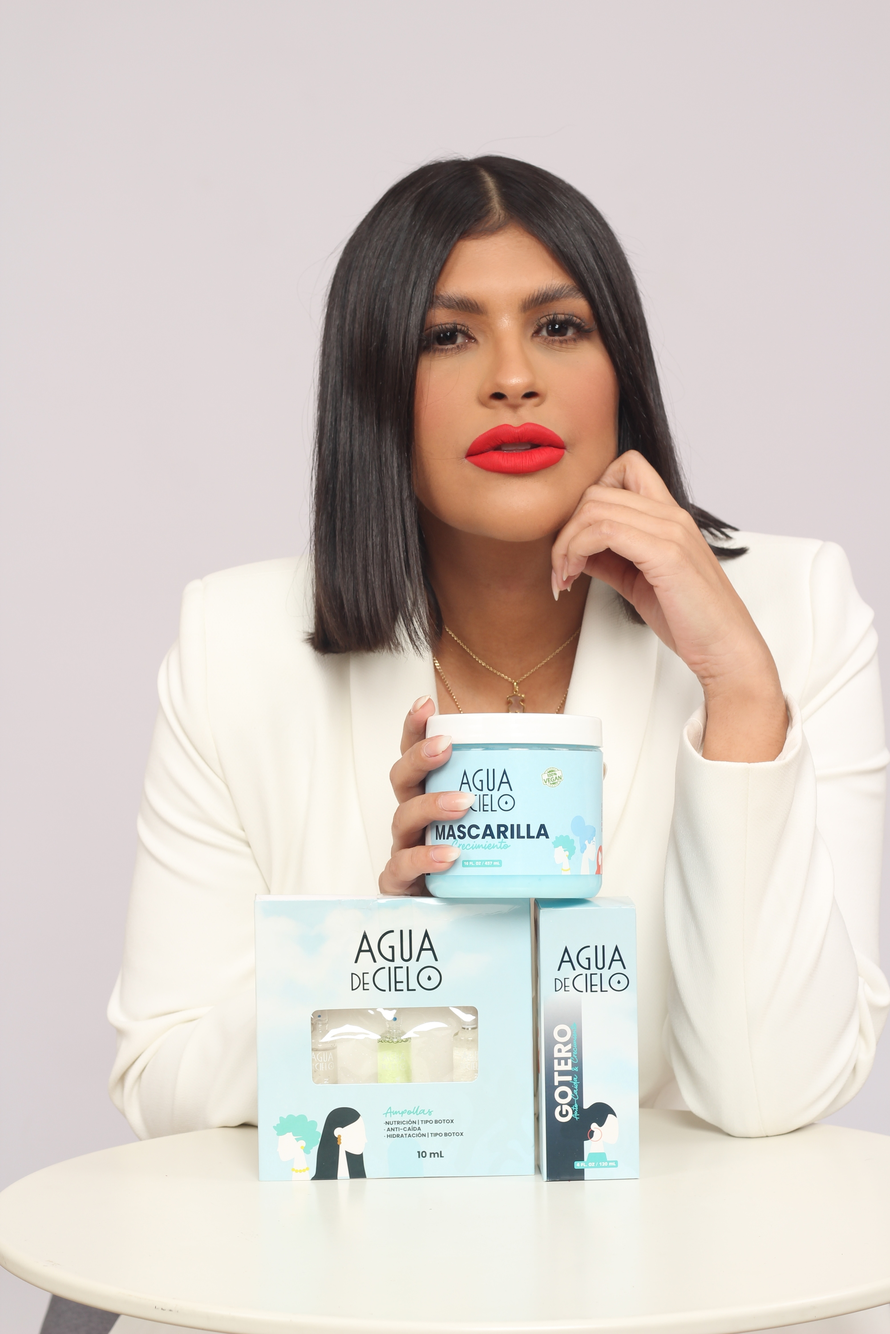
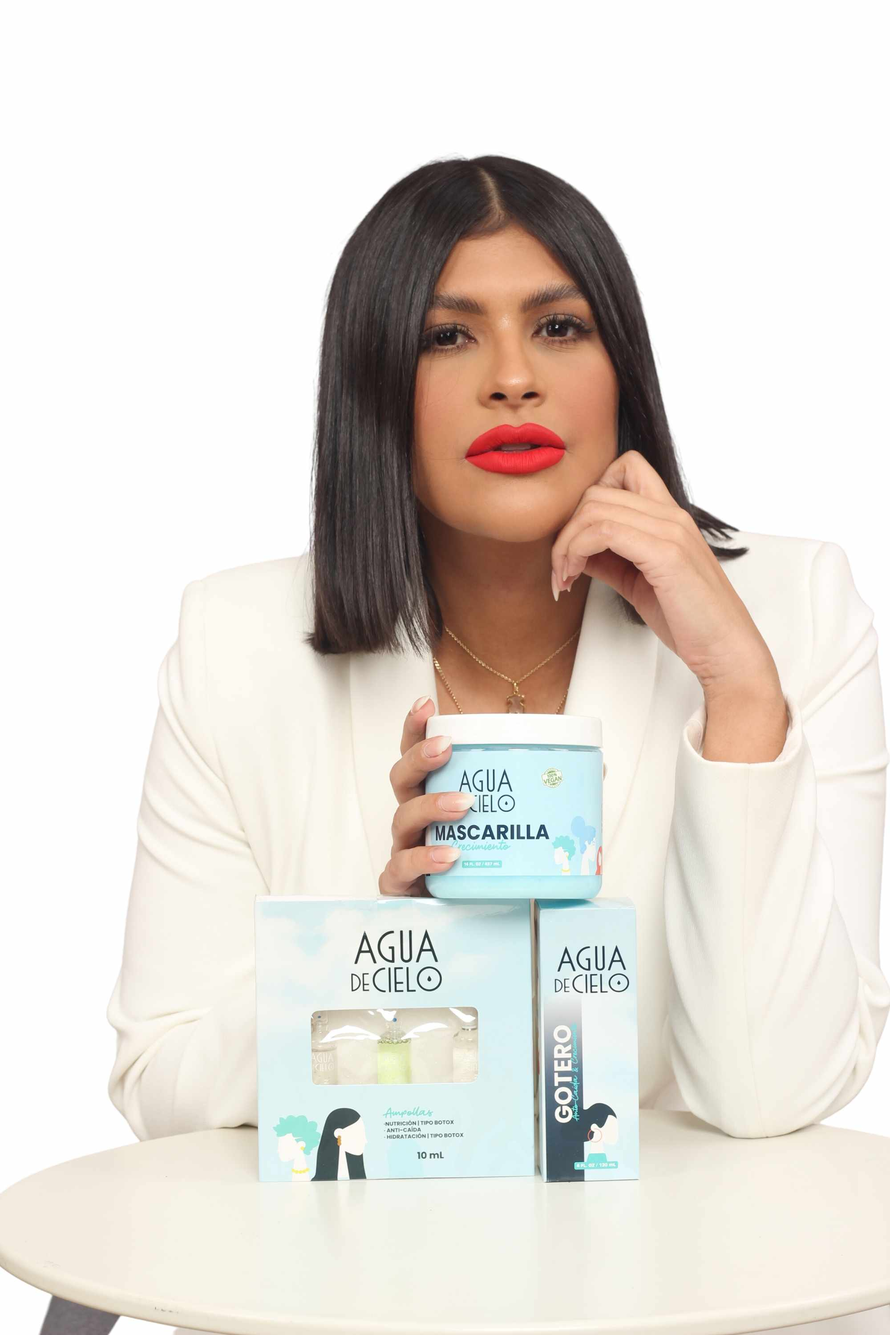
update website colors and images

diff --git a/css/style.css b/css/style.css
@@ -93,22 +93,20 @@ body {
 
 .heading-primary,
 .hero-heading-primary {
-  font-size: 4.4rem;
+  font-size: 5.2rem;
   line-height: 1.05;
 }
 
 .hero-heading-primary {
-  margin-bottom: 3.2rem;
+  margin-bottom: 2.4rem;
 }
 
-.heading-primary {
-  margin-bottom: 6.4rem;
-}
-
+.hero-heading-secondary,
 .heading-secondary {
-  font-size: 4.4rem;
+  font-size: 2.4rem;
   line-height: 1.2;
   margin-bottom: 6.4rem;
+  color: #555;
 }
 
 .heading-tertiary {
@@ -152,8 +150,8 @@ body {
   padding: 1.6rem 1.6rem;
   text-decoration: none;
   text-align: center;
-  background-color: #c56483;
-  color: #f9f0f3;
+  background-color: #1a67af;
+  color: #e8f0f7;
 
   /* only necessary for .btn */
   border: none;
@@ -162,6 +160,13 @@ body {
 
   /* Put transition on original "state" */
   transition: all 0.3s;
+}
+
+.btn--pink,
+.btn--pink:link,
+.btn--pink:visited {
+  background-color: #f2a2be;
+  color: #302026;
 }
 
 .text {
@@ -191,7 +196,7 @@ body {
 
 .header {
   display: flex;
-  background-color: #e5c1cd;
+  background-color: #d7ecf6;
   justify-content: space-between;
   align-items: center;
 
@@ -215,7 +220,7 @@ body {
 .header-email:visited {
   display: inline-block;
   text-decoration: none;
-  color: #453a3d;
+  color: #0b1317;
   font-weight: 500;
   font-size: 1.4rem;
   transition: all 0.3s;
@@ -259,18 +264,19 @@ body {
 }
 
 .hero-left {
-  padding: 4.8rem;
-  display: flex;
-  flex-direction: column;
-  gap: 4.8rem;
+  padding: 4.8rem 1.8rem 4.8rem 14.4rem;
 }
 
 .hero-text {
   margin-bottom: 3.2rem;
 }
 
+.stores {
+  margin-bottom: 4.8rem;
+}
+
 .hero-right {
-  background-image: url(../img/hero.webp);
+  background-image: url(../img/hero.jpg);
   background-position: center;
   background-repeat: no-repeat;
   background-size: cover;
@@ -286,14 +292,14 @@ body {
 /**************************/
 
 .footer {
-  background-color: #000;
+  background-color: #d7ecf6;
+  color: #0b1317;
 }
 
 .grid--footer {
   grid-template-columns: repeat(3, 1fr);
   max-width: 130rem;
   margin: 0 auto;
-  color: #ccc;
   padding: 12.8rem 1.2rem 9.6rem 1.2rem;
   justify-content: space-between;
   align-items: flex-start;
@@ -335,13 +341,12 @@ body {
 .footer-link:visited {
   text-decoration: none;
   font-size: 1.6rem;
-  color: #ccc;
   transition: all 0.3s;
 }
 
 .footer-link:hover,
 .footer-link:active {
-  color: #fff;
+  color: #000;
 }
 
 .social-container {
@@ -369,7 +374,6 @@ body {
   margin: 0 auto;
   font-size: 1.2rem;
   padding-bottom: 2.4rem;
-  color: #ccc;
 }
 
 .policies {
@@ -382,13 +386,12 @@ body {
   display: inline-block;
   text-decoration: none;
   font-size: 1.2rem;
-  color: #ccc;
   transition: all 0.3s;
 }
 
 .policy:hover,
 .policy:active {
-  color: #fff;
+  color: #000;
 }
 
 /**************************/

diff --git a/index.html b/index.html
@@ -53,7 +53,7 @@
       <a href="index.html">
         <img
           class="logo-header"
-          src="img/logo-header.jpg"
+          src="img/logo-header.png"
           alt="agua-de-cielo-logo"
         />
       </a>
@@ -70,11 +70,18 @@
       <section id="home" class="section-hero">
         <div class="hero">
           <div class="hero-left">
-            <h1 class="hero-heading-primary">Welcome! ¡Bienvenido!</h1>
+            <h1 class="hero-heading-primary">
+              Healthier Hair with Agua de Cielo
+            </h1>
+            <h2 class="hero-heading-secondary">
+              Regain your hair confidence: Our reparative products penetrate
+              damaged hair, restoring it from within and delivering visible and
+              long-lasting results.
+            </h2>
             <div class="stores">
               <div class="hero-text">
                 <p class="text">Pick your store location</p>
-                <p class="text"><i>Elige donde quieres comprar</i></p>
+                <!-- <p class="text"><i>Elige donde quieres comprar</i></p> -->
               </div>
               <div>
                 <a href="https://aguadecielobeauty.com/" class="btn"
@@ -83,7 +90,7 @@
               </div>
               <div>
                 <a href="https://aguadecielo.do/" class="btn"
-                  >Repúbica Dominicana</a
+                  >Dominican Republic</a
                 >
               </div>
             </div>
@@ -92,15 +99,15 @@
                 <p class="text">
                   Check out our hair growth challenge (Spanish only)
                 </p>
-                <p class="text">
+                <!-- <p class="text">
                   <i
                     >Echa un vistazo a nuestro desafío de crecimiento del
                     cabello(solo en español)</i
                   >
-                </p>
+                </p> -->
               </div>
               <div>
-                <a href="https://retocrecimiento.com/" class="btn"
+                <a href="https://retocrecimiento.com/" class="btn btn--pink"
                   >Reto Crecimiento</a
                 >
               </div>
@@ -118,7 +125,7 @@
           <a class="footer-logo" href="#">
             <img
               class="logo-footer"
-              src="img/adc-logo-footer.jpg"
+              src="img/logo-footer.png"
               alt="agua de cielo logo"
             />
           </a>

diff --git a/css/queries.css b/css/queries.css
@@ -49,8 +49,9 @@ Instead, 1rem = 1em = 16px
     font-size: 2.4rem;
   }
 
+  .hero-heading-secondary,
   .heading-secondary {
-    font-size: 3.6rem;
+    font-size: 2.4rem;
   }
 
   .heading-tertiary {
@@ -64,6 +65,10 @@ Instead, 1rem = 1em = 16px
 
   .grid--3-cols {
     column-gap: 2.4rem;
+  }
+
+  .hero-left {
+    padding: 4.8rem 1.8rem 4.8rem 9.6rem;
   }
 
   .grid--footer,
@@ -103,6 +108,10 @@ Instead, 1rem = 1em = 16px
 
   .section-hero {
     padding: 0;
+  }
+
+  .hero-left {
+    padding: 4.8rem 1.8rem 4.8rem 2.4rem;
   }
 
   .btn {
@@ -157,6 +166,7 @@ Instead, 1rem = 1em = 16px
     color: #fff;
   }
 
+  .hero-heading-secondary,
   .heading-secondary {
     margin-bottom: 4.8rem;
     color: #fff;
@@ -203,8 +213,9 @@ Instead, 1rem = 1em = 16px
     padding: 1.2rem 1.2rem;
   }
 
+  .hero-heading-secondary,
   .heading-secondary {
-    margin-bottom: 3.2rem;
+    margin-bottom: 4.8rem;
   }
 
   .logo-header {
@@ -216,6 +227,10 @@ Instead, 1rem = 1em = 16px
   }
 
   .hero-heading-primary {
+    font-size: 3.6rem;
+  }
+
+  .hero-heading-secondary {
     font-size: 2.4rem;
   }
 

diff --git a/privacy-policy.html b/privacy-policy.html
@@ -60,7 +60,7 @@
       <a href="index.html">
         <img
           class="logo-header"
-          src="img/logo-header.jpg"
+          src="img/logo-header.png"
           alt="agua-de-cielo-logo"
         />
       </a>
@@ -340,7 +340,7 @@
           <a class="footer-logo" href="#">
             <img
               class="logo-footer"
-              src="img/adc-logo-footer.jpg"
+              src="img/logo-footer.png"
               alt="agua de cielo logo"
             />
           </a>

diff --git a/terms-conditions.html b/terms-conditions.html
@@ -60,7 +60,7 @@
       <a href="index.html">
         <img
           class="logo-header"
-          src="img/logo-header.jpg"
+          src="img/logo-header.png"
           alt="agua-de-cielo-logo"
         />
       </a>
@@ -369,7 +369,7 @@
           <a class="footer-logo" href="#">
             <img
               class="logo-footer"
-              src="img/adc-logo-footer.jpg"
+              src="img/logo-footer.png"
               alt="agua de cielo logo"
             />
           </a>
